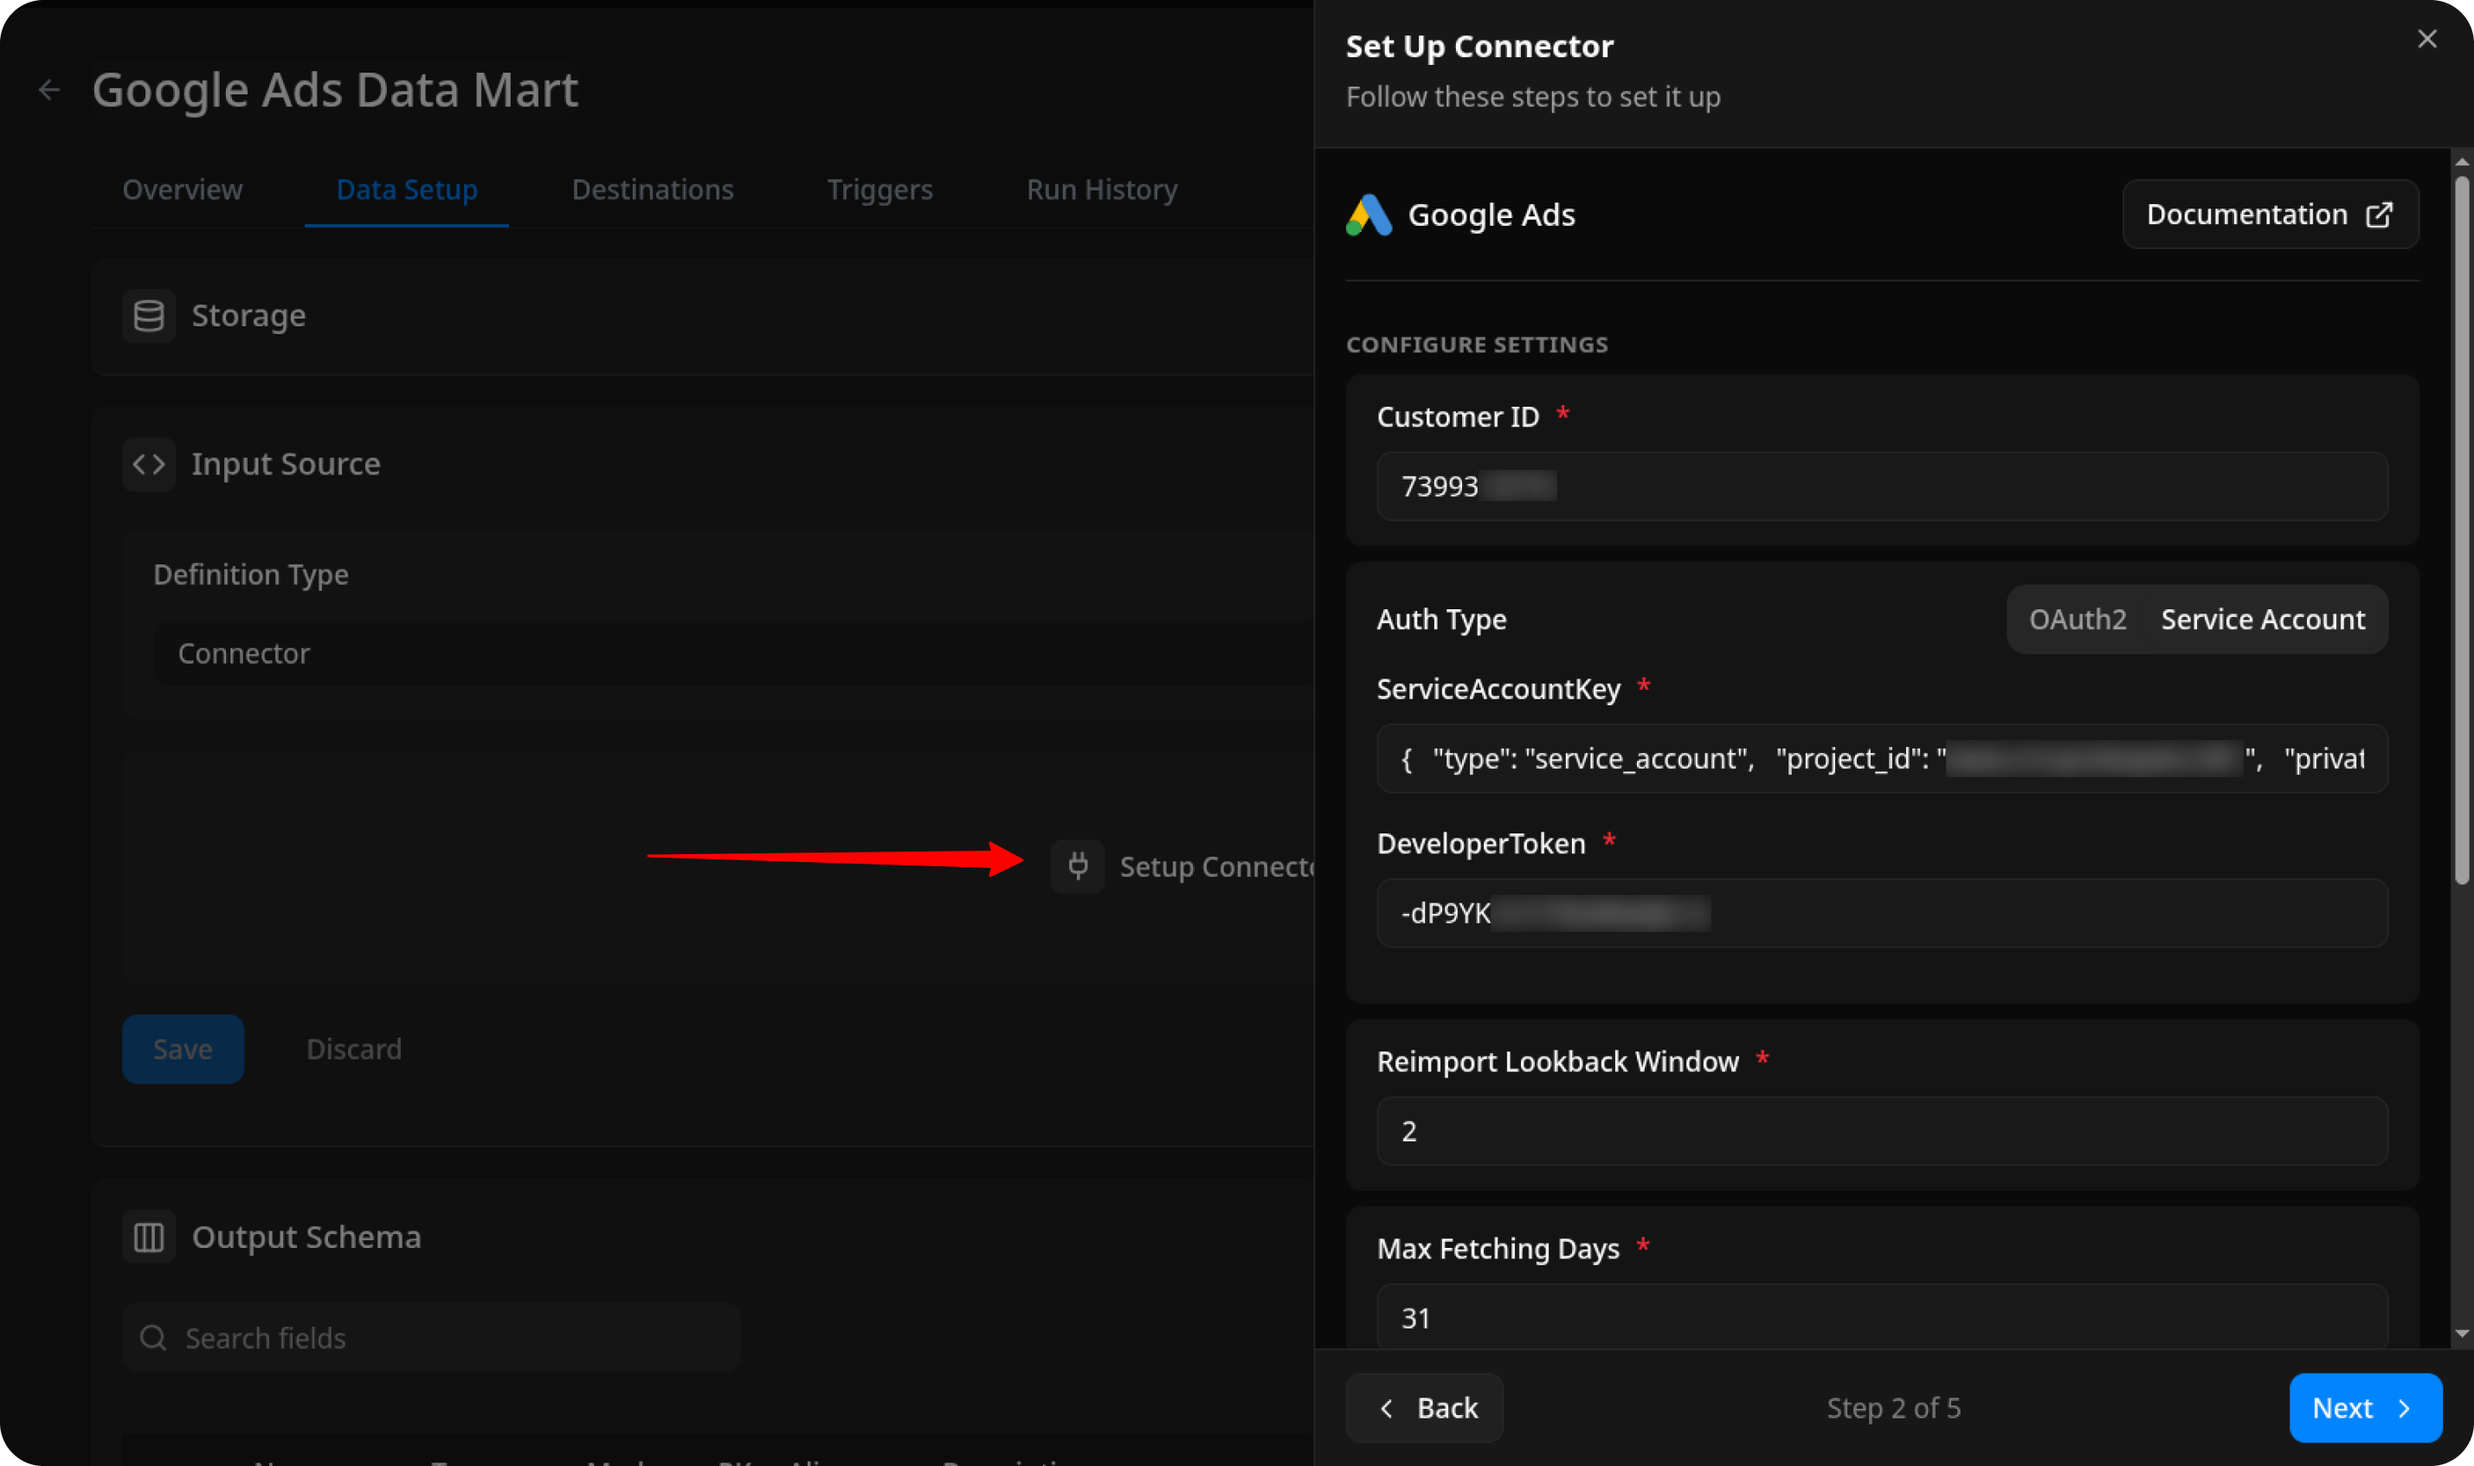
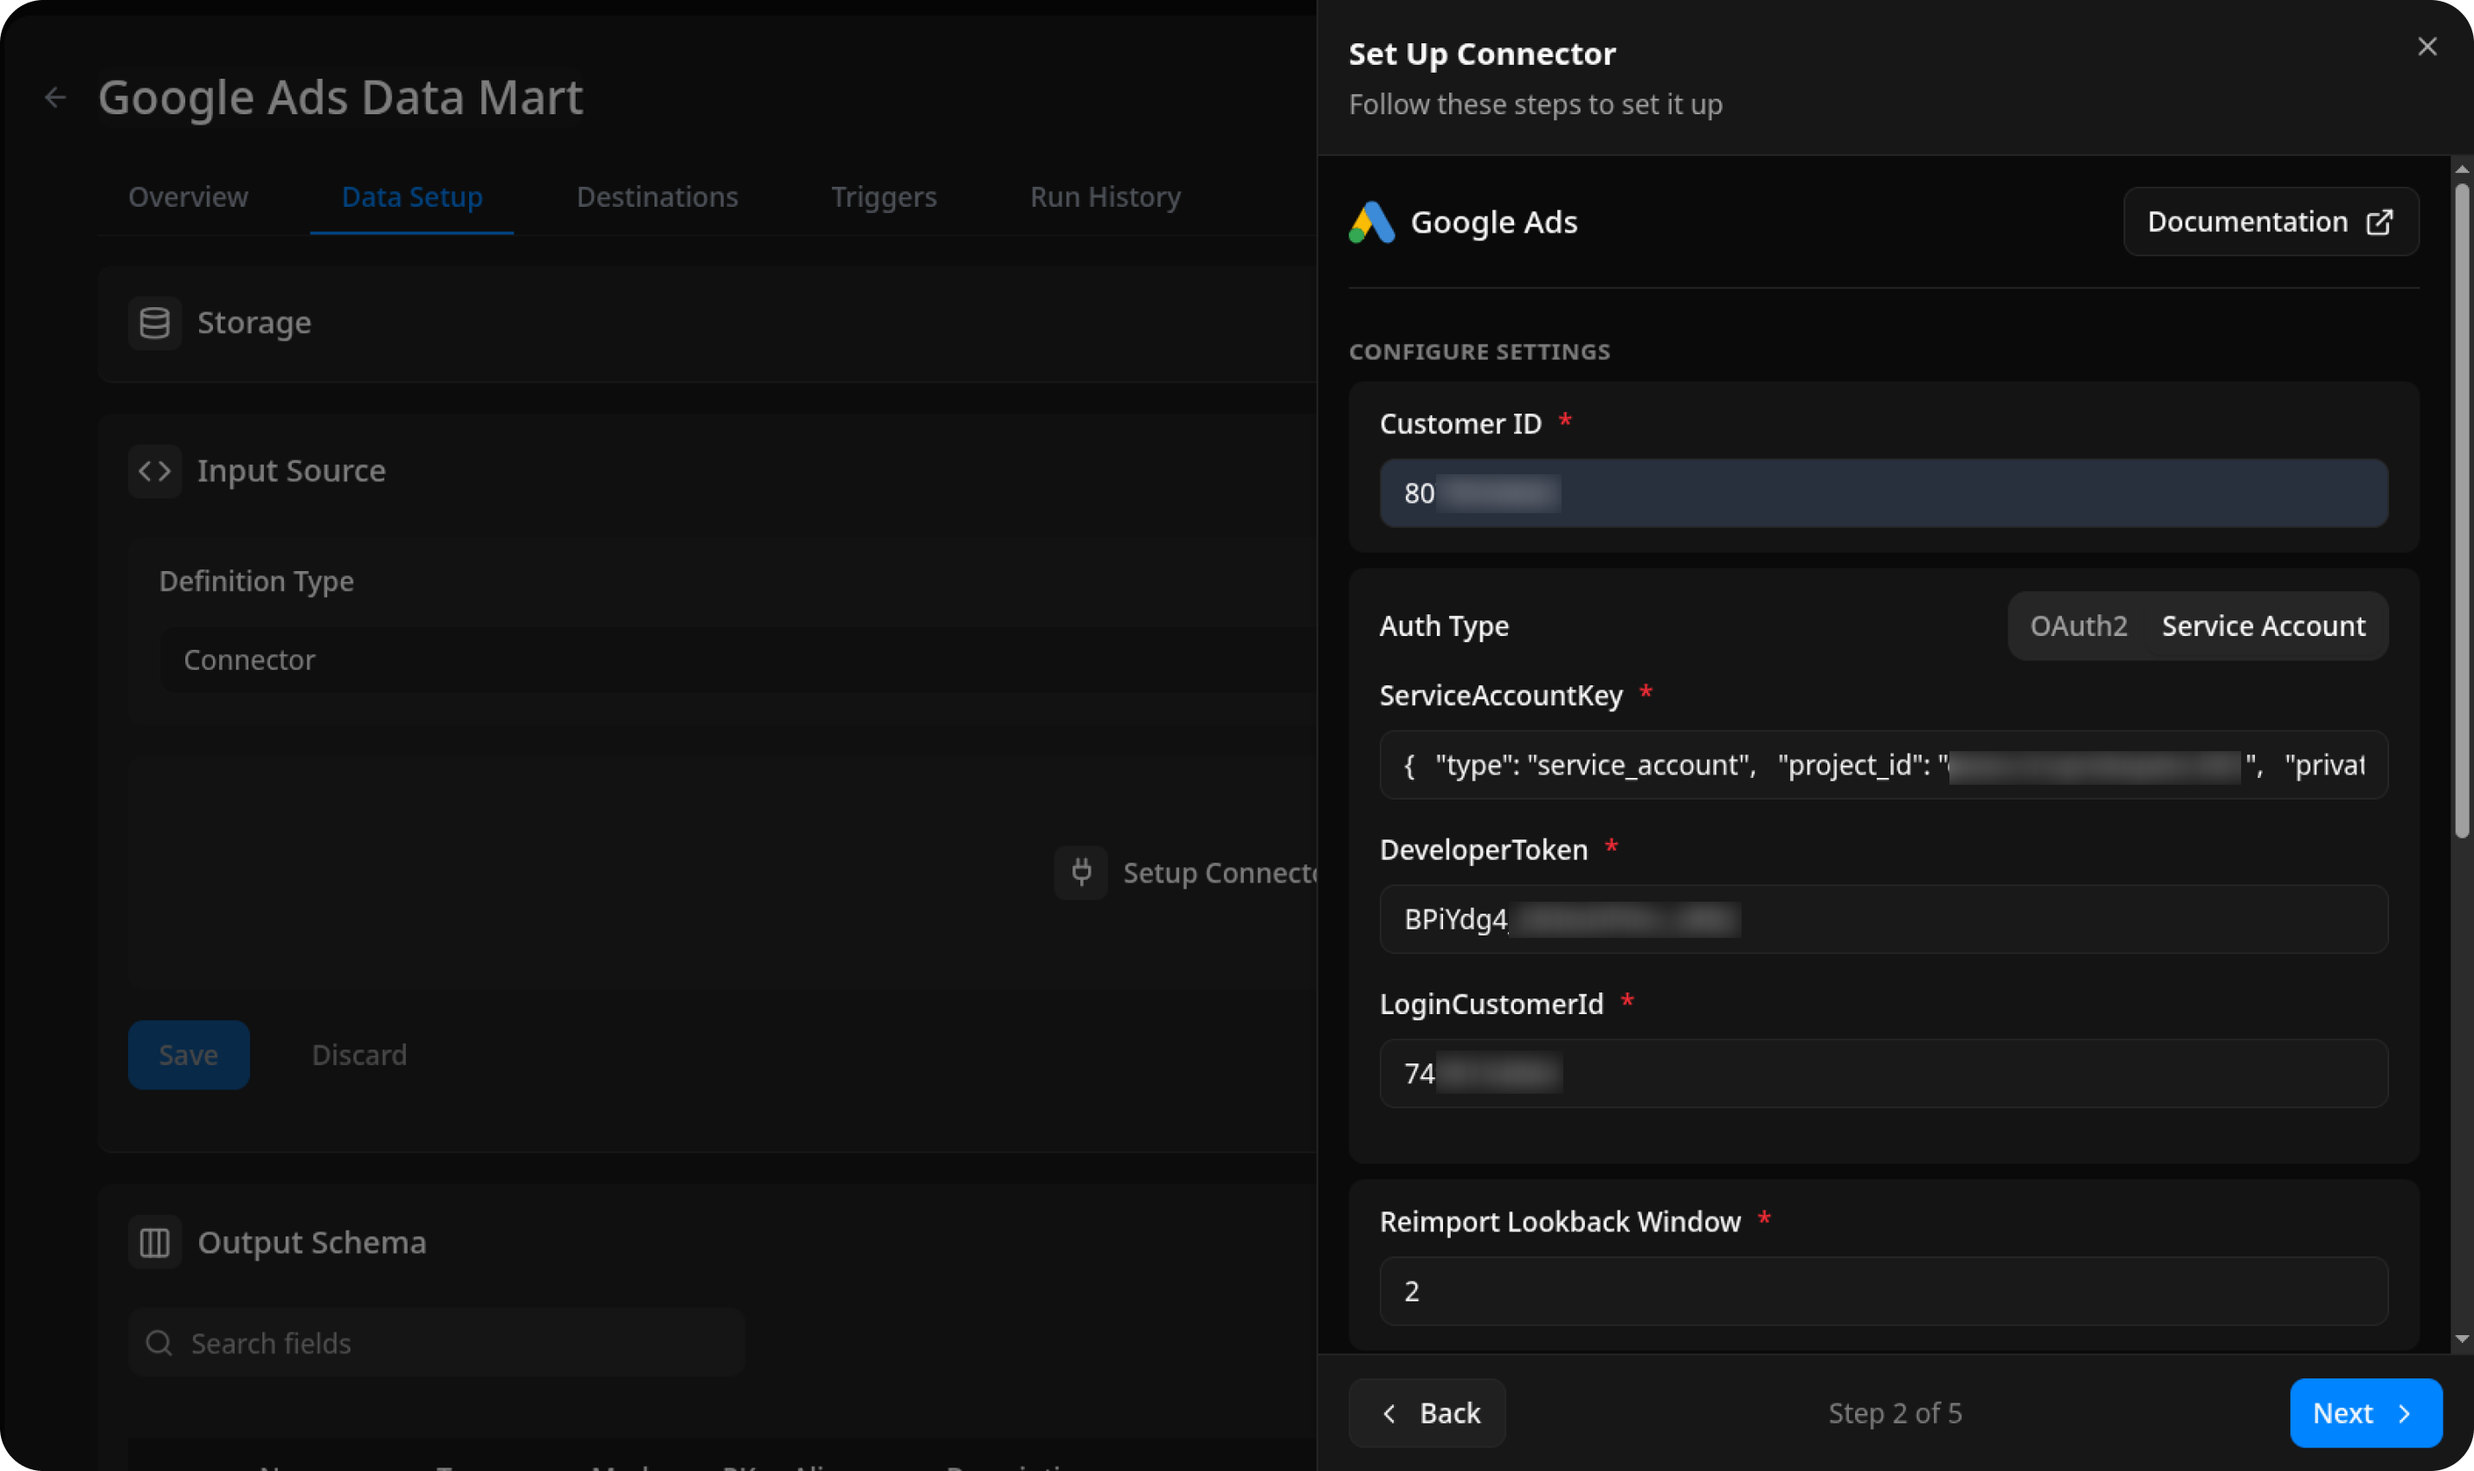
feat(docs): Enhance Google Ads API connection guide with detailed steps and images

diff --git a/packages/connectors/src/Sources/GoogleAds/CREDENTIALS.md b/packages/connectors/src/Sources/GoogleAds/CREDENTIALS.md
@@ -2,7 +2,58 @@
 
 To connect to the **Google Ads API** and start importing data with OWOX Data Marts, follow the steps below.
 
-## Step 1: Create a Service Account in Google Cloud Platform (GCP)
+**Prerequisites**:
+
+You must have a **Manager (MCC)** account in Google Ads.  
+If you don’t have one yet, follow Google’s instructions to create it:  
+[Create a Manager Account](https://support.google.com/google-ads/answer/7459399?hl=en)
+
+## Step 1. Register in the API Center
+
+1. In your **Manager (MCC)** account, open **Admin → API Center**.  
+2. Fill out the registration form with the following details:  
+   - **API Contact Email**  
+   - **Company Name**  
+   - **Company URL**  
+   - **Company Type**  
+   - **Intended Use** — for example:  
+     _“For in-house marketing analytics and retrieving ad data for reporting.”_  
+   - **Principal Place of Business**  
+3. Check the box to accept the Terms and Conditions.  
+4. Click **Create Token**.
+
+![Google Ads Request API](res/googleads_apirequest.png)
+
+## Step 2. Request Basic Access for the Developer Token
+
+By default, new developer tokens can only access **test accounts**.  
+To retrieve data from active Google Ads accounts, you must apply for **Basic Access**.
+
+![Google Ads Basic Access](res/googleads_applyforbasicaccess.png)
+
+In the Basic Access application form:
+
+1. Fill in your company details.  
+2. Describe your company’s business model and how you use Google Ads.  
+   Example:  
+   _“We leverage Google Ads to execute targeted campaigns that increase customer acquisition and brand awareness.”_  
+3. Attach a document or PDF with a sample of your planned report design.  
+4. For the question _“Do you plan to use your Google Ads API token with a tool developed by someone else?”_, select **Yes** and include the OWOX Data Marts URL:  
+   [https://github.com/OWOX/owox-data-marts](https://github.com/OWOX/owox-data-marts)  
+5. For the question _“Do you plan to use your token for App Conversion Tracking and Remarketing API?”_, select **No**.  
+6. Under _“Which of the following Google Ads capabilities does your tool provide?”_, check at least **Campaign Management** and **Reporting**.  
+7. Submit the application.
+
+![Google Ads Request Form](res/googleads_requestform.png)
+
+Within approximately **three business days**, the Google Ads team will respond to your registered email address.  
+If approved, you’ll see your access level updated in the API Center:  
+
+![Google Ads Basic Access](res/googleads_basicaccess.png)
+
+## Service Account Authentication
+
+### Step 1: Create a Service Account in Google Cloud Platform (GCP)
 
 1. Open your GCP project and navigate to  
    **IAM & Admin → Service Accounts → Create Service Account**.  
@@ -17,45 +68,26 @@ To connect to the **Google Ads API** and start importing data with OWOX Data Mar
 
 ![Google Ads Add service account keys](res/googleads_service.png)
 
-## Step 2: Set Up Access in Google Ads
-
-**Prerequisites**:
-
-You must have a **Manager (MCC)** account in Google Ads.  
-If you don’t have one yet, follow Google’s instructions to create it:  
-👉 [Create a Manager Account](https://support.google.com/google-ads/answer/7459399?hl=en)
+### Step 2: Set Up Access in Google Ads
 
 **Add the Service Account to Google Ads**:
 
 1. Open your **Google Ads account** and go to **Admin → Access and Security**.  
-2. Click the **+ (plus)** button to add a new user.  
+2. Click the **+ (plus)** icon to add a new user.  
 3. Paste your **service account email address**.  
 4. Assign **Read-only** permissions.  
-5. Click **Add account**
+5. Click **Add Account**.  
+6. Repeat the same steps for your **Manager (MCC)** account.
 
 ![Google Ads Add service account email](res/googleads_addservice.png)
 
-## Step 3: Register in the API Center
-
-1. In the same **Admin** section of Google Ads, open **API Center**.  
-2. Fill in the required form fields:  
-   - **API Contact Email**  
-   - **Company Name**  
-   - **Company URL**  
-   - **Company Type**  
-   - **Intended Use** — e.g., “For in-house marketing analytics and retrieving ad data for reporting.”  
-   - **Principal Place of Business**  
-3. Accept the Terms and Conditions checkbox.  
-4. Click **Create Token**.
-
-![Google Ads Request API](res/googleads_apirequest.png)
-
 ## Step 4: Save Your Developer Token and Customer ID
 
-After completing the registration:
+After completing, make sure to collect and securely store the following information:
 
-- Copy and securely save your **Developer Token**.  
-- Copy your **Customer ID** (from the top of your Google Ads account).  
+- **Developer Token** — copy it from the **API Center** in your **Manager (MCC)** account.  
+- **Customer ID** — copy it from the top-right corner of your **ad account** (the account from which you want to retrieve data).  
+- **Login Customer ID** — copy the ID of your **Manager (MCC)** account.  
 
 ![Google Ads Developer Token](res/googleads_devtoken.png)
 
@@ -65,12 +97,18 @@ At this point, you should have the following credentials:
 |-------------|-------------|
 | **Service Account Key (JSON)** | Used for authentication from your GCP project |
 | **Developer Token** | Authorizes access to the Google Ads API |
-| **Customer ID** | Identifies your specific Google Ads account |
+| **Customer ID** | Identifies the ad account you’re retrieving data from |
+| **Login Customer ID** | Identifies your Manager (MCC) account used for authentication |
 
 ## Step 5: Use the Credentials to Obtain the Access Token
 
 Use the credentials you gathered above to retrieve the access token and connect to Google Ads, as described in the  
 👉 [GETTING_STARTED](GETTING_STARTED.md) guide.
+
+## OAuth2 Authentication
+
+> This section is currently under development.  
+> OAuth2 authentication will allow connection using individual user consent instead of a service account.
 
 ✅ **You’re all set!**  
 You can now use your service account, developer token, and customer ID to access and import data from Google Ads via OWOX Data Marts.

diff --git a/packages/connectors/src/Sources/GoogleAds/GETTING_STARTED.md b/packages/connectors/src/Sources/GoogleAds/GETTING_STARTED.md
@@ -83,6 +83,8 @@ Choose **Backfill (custom period)** to load historical data for a custom time ra
 The process is complete when the **Run history** tab shows the message:  
 **"Success"**  
 
+![Google Ads Success](res/googleads_success.png)
+
 ## Access Your Data
 
 The data will be written to the dataset specified earlier.
